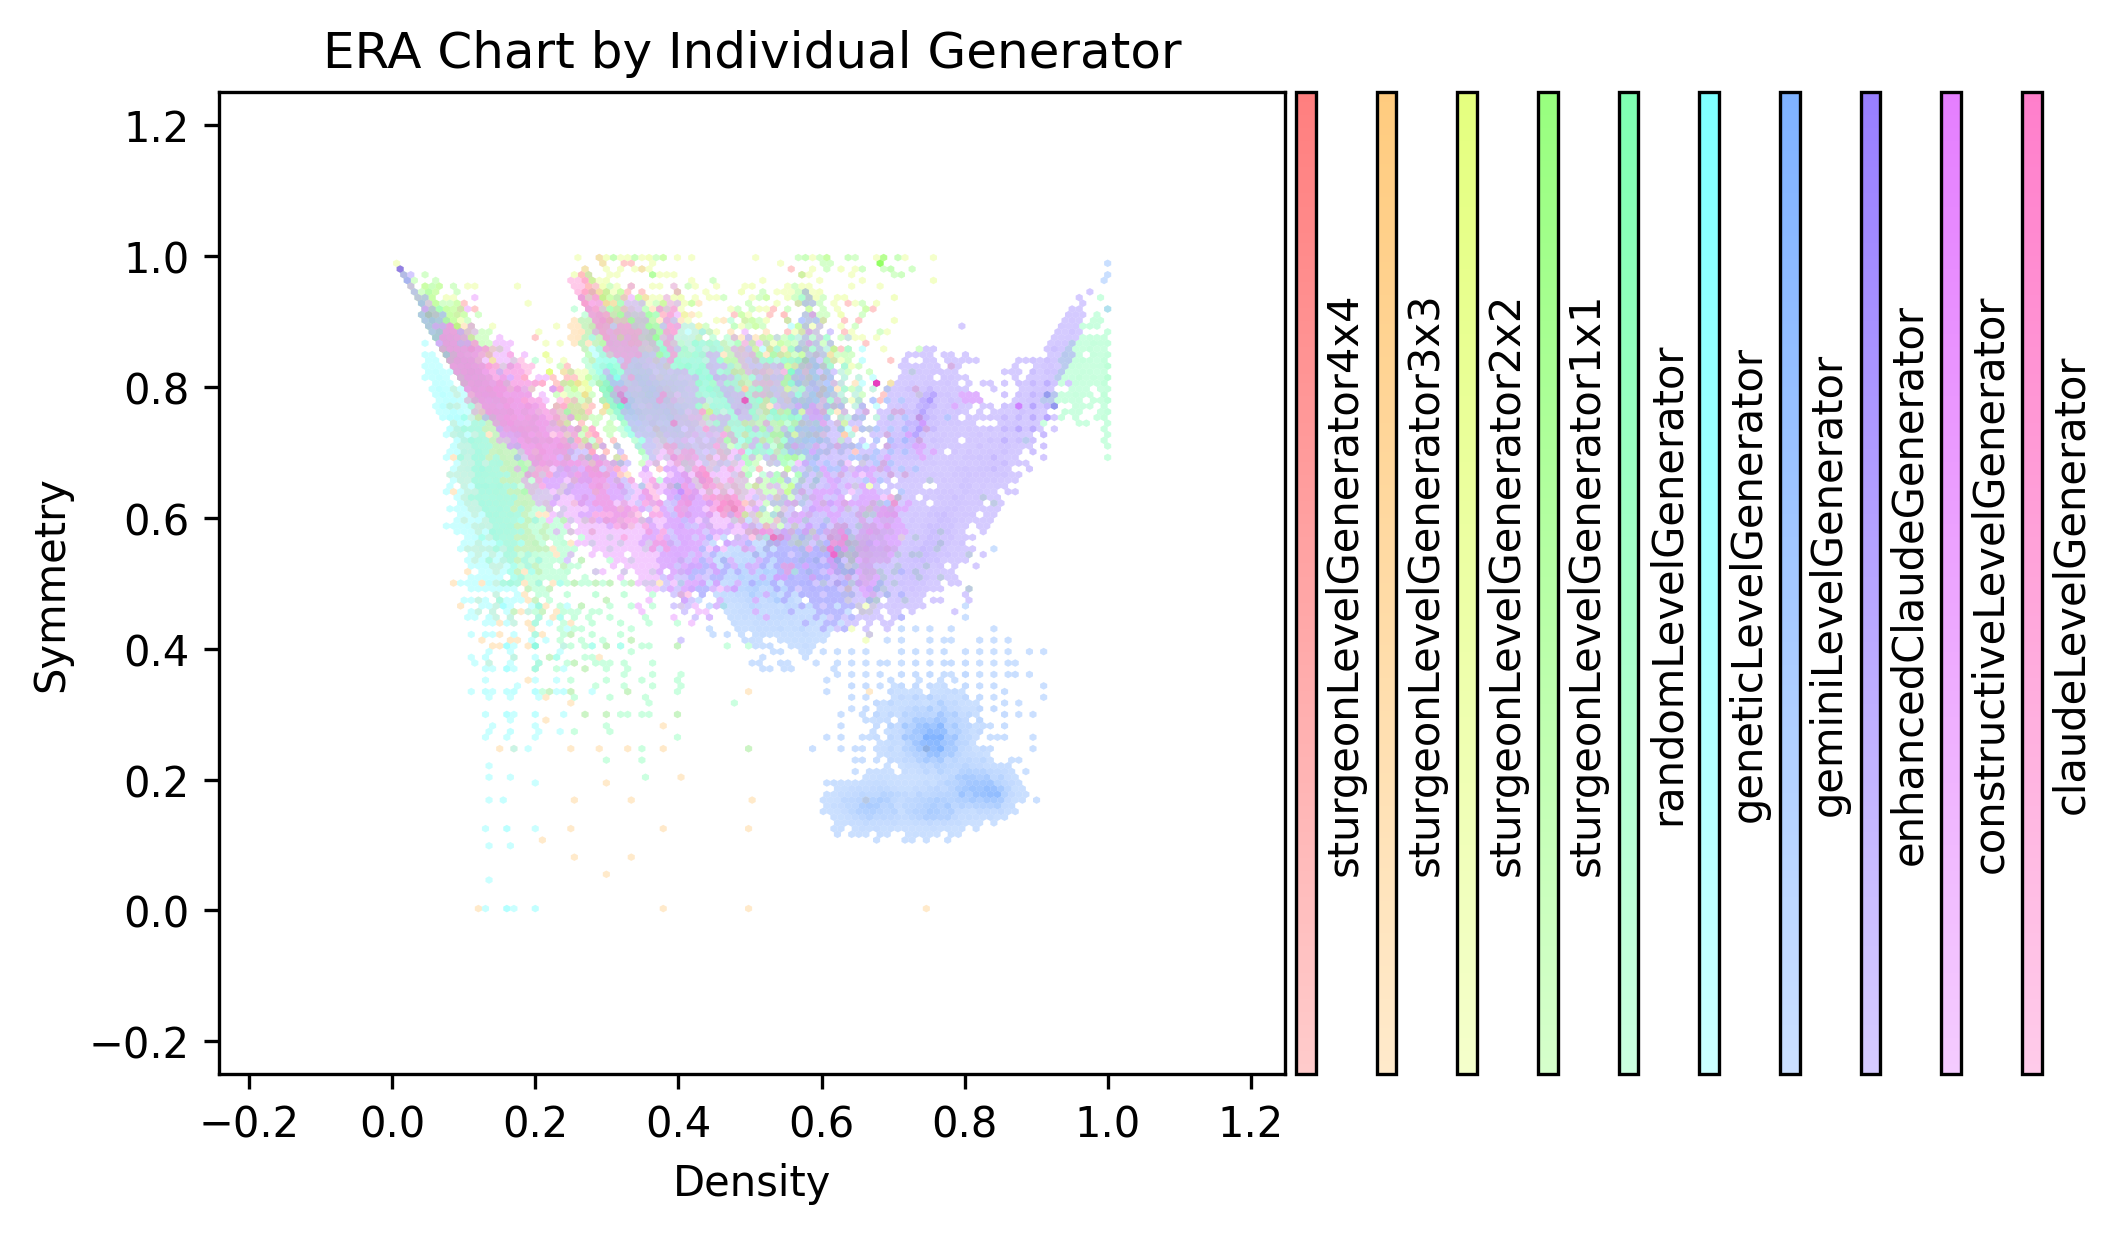
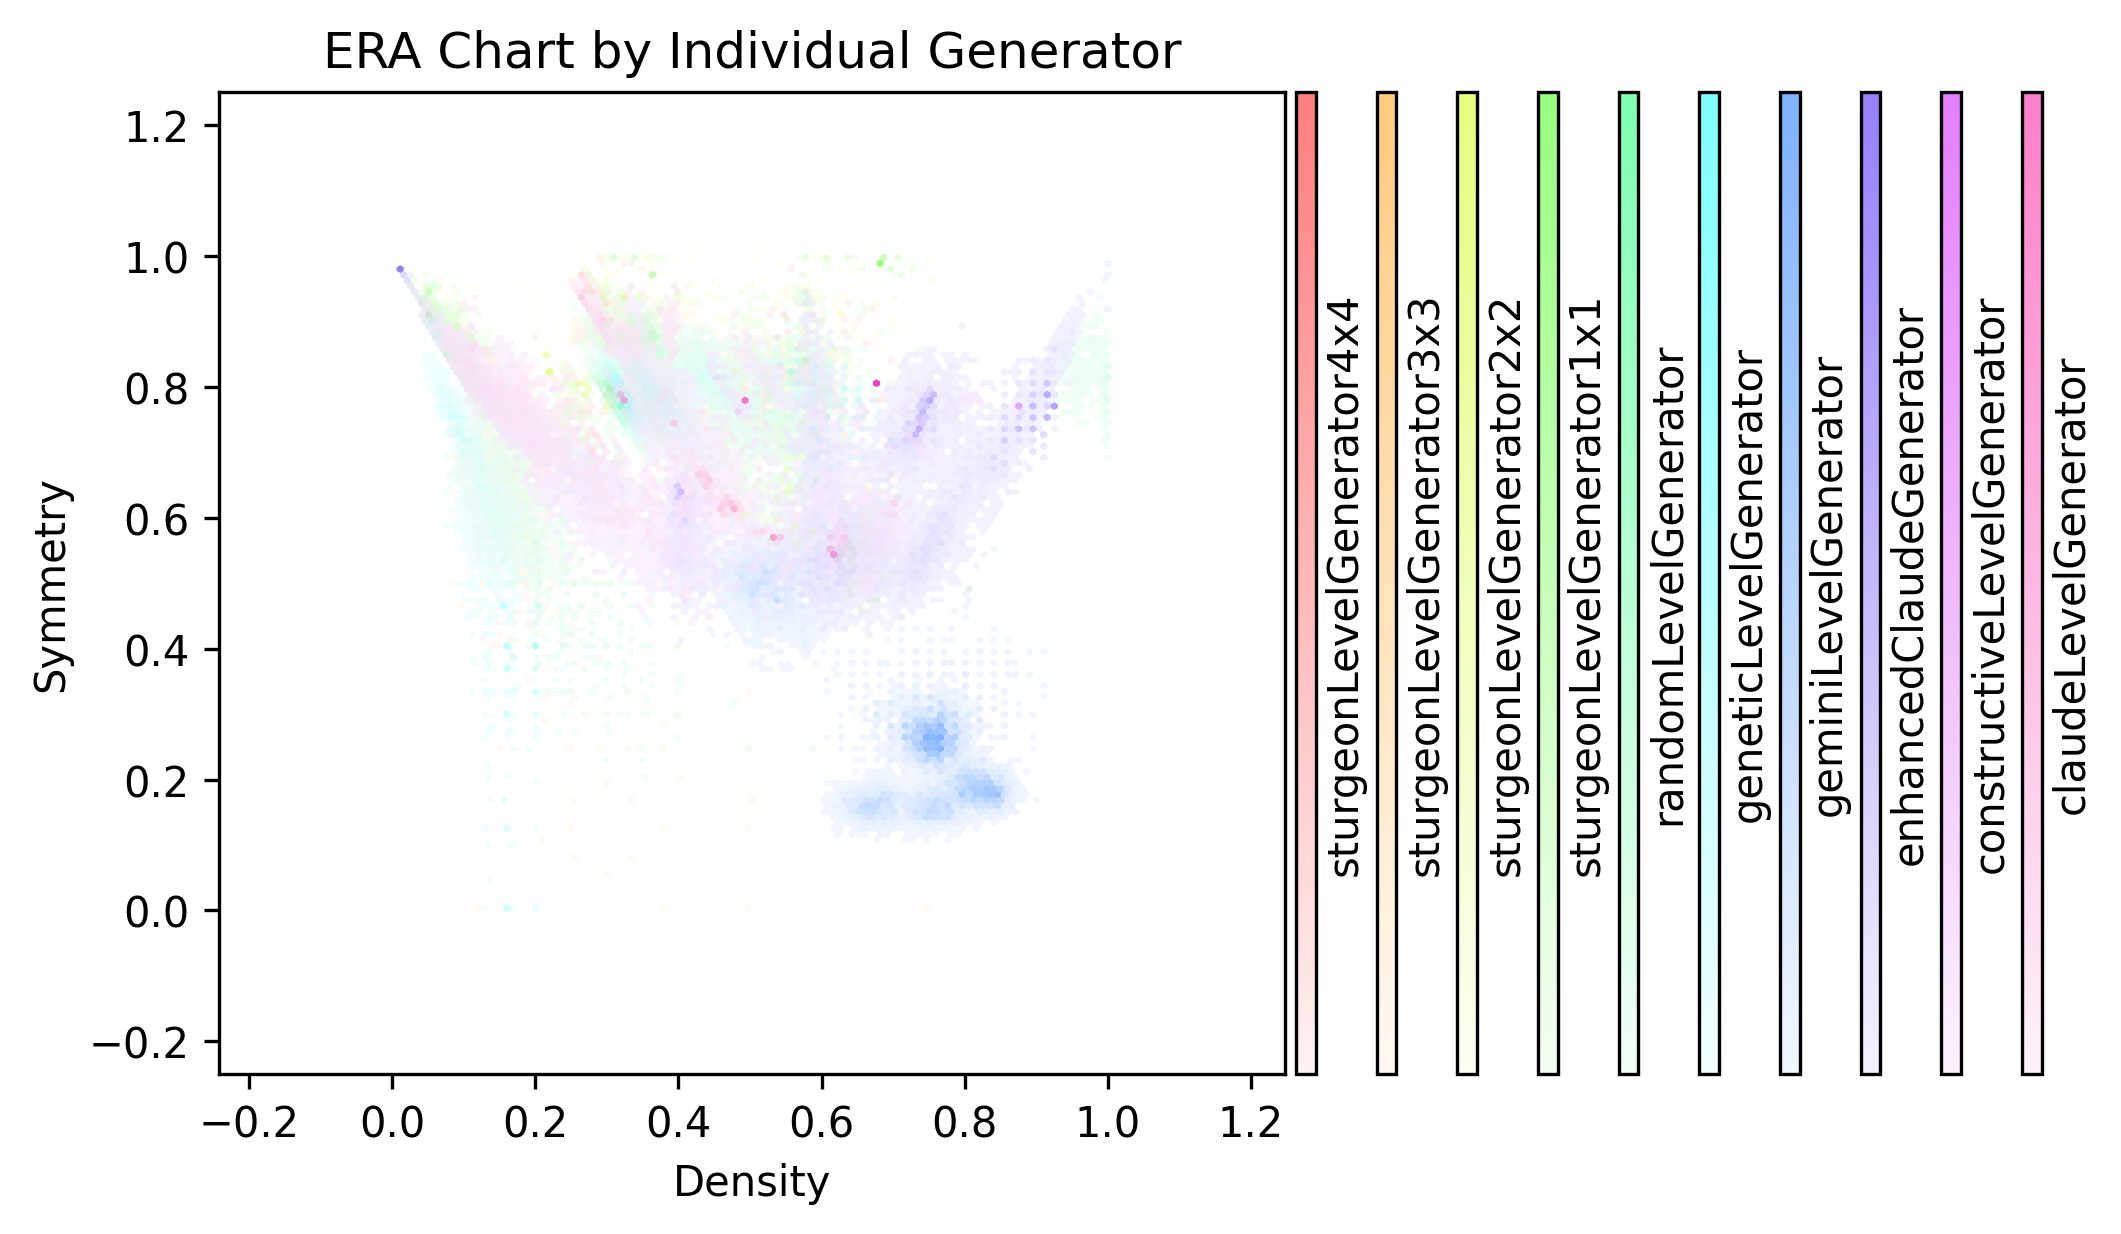
fall start

Changed region(s): [[0.1867, 0.1848, 0.529, 0.6775], [0.5912, 0.5851, 0.8091, 0.8622], [0.8402, 0.5851, 0.9646, 0.8622]]

diff --git a/src/tools/metricCalculation/calculateMetrics.java b/src/tools/metricCalculation/calculateMetrics.java
@@ -63,7 +63,7 @@ public class calculateMetrics {
         //First, add all the metrics that are calculated on a per level basis
 
         // Individual Metrics added to the json object below 
-        /**/
+        /*
         levelMetrics.addProperty("AgentSolutionLength", AgentSolutionLength.calculateMetric(levelPathString));
         levelMetrics.addProperty("AvatarX", AvatarX.calculateMetric(levelPathString));
         levelMetrics.addProperty("AvatarY", avatarY.calculateMetric(levelPathString));
@@ -101,7 +101,7 @@ public class calculateMetrics {
         // Put metrics with special formats here and explain why
         // Metrics that can not be plotted will be marked with an asterisk
         levelMetrics.add("MechanicUsage*", MechanicUsage.calculateMetric(levelPathString)); // Produces a json object (histogram); Requires a level's path
-        /**/
+        */
         // Finally, we add binning information. these should all be booleans that represent whether a level passes or fails a certain requirement
         JsonObject binningProperty = new JsonObject();
             binningProperty.addProperty("ConsistentRows", BinGeneratedLevels.consistentRows(levelText));
@@ -146,19 +146,18 @@ public class calculateMetrics {
             // Here we calculate metrics by game so that we are able to save a metric file for each game in each generator along with the metric file for all games for a generator
             Stream<Path> streamByGame = Files.list(Path.of(levelFolderPath)).filter(f -> !f.toString().endsWith(".json")).parallel(); // Remove parallelization if causing problems
             streamByGame.forEach(game -> {
-                
                 try {
                     JsonObject fullGameJson = new JsonObject();
                     
                     Stream<Path> streamByLevel = Files.walk(Path.of(game.toString() + "/"));
                     System.out.println("Creating metrics for... " + levelFolderPath + "/" + game.toString());
                     streamByLevel.forEach(level -> {
-                        System.out.println("Starting " + level.toString());
                         // If level file
                         if (level.toString().endsWith(".txt")){
                             try {
                                 fullGameJson.add(level.toString(), createLevelMetricJson(level));
-                                System.out.println("\r" + level.toString() + " completed!                           \r"); // (Load-bearing space characters)
+                                System.out.print("\r" + level.toString() + " completed!                           \r"); // (Load-bearing space characters)
+                                
                             } catch (IOException e) {
                                 e.printStackTrace();
                             }
@@ -176,8 +175,7 @@ public class calculateMetrics {
                     e.printStackTrace();
                     
                 }
-            }
-        );
+            });
             /*String fullJsonString = "";
             for (JsonObject j : fullGeneratorJsonList){
                 String jString = j.toString();
@@ -269,10 +267,11 @@ public class calculateMetrics {
         // Uncomment to generate metrics for all levels
         
         selectedFolders.add("generatedExamples/geminiLevelGenerator");
-        selectedFolders.add("generatedExamples/constructiveLevelGenerator");
-        selectedFolders.add("generatedExamples/geneticLevelGenerator");
-        selectedFolders.add("generatedExamples/enhancedClaudeGenerator");
-        selectedFolders.add("generatedExamples/randomLevelGenerator");
+        //selectedFolders.add("generatedExamples/constructiveLevelGenerator");
+        //selectedFolders.add("generatedExamples/geneticLevelGenerator");
+        //selectedFolders.add("generatedExamples/enhancedClaudeGenerator");
+        ////selectedFolders.add("generatedExamples/localLanguageModelGenerator");
+        //selectedFolders.add("generatedExamples/randomLevelGenerator");
         selectedFolders.add("generatedExamples/claudeLevelGenerator");
         selectedFolders.add("generatedExamples/sturgeonLevelGenerator1x1");
         selectedFolders.add("generatedExamples/sturgeonLevelGenerator2x2");

diff --git a/metric_analysis/figure_types/ERA_by_generator.py b/metric_analysis/figure_types/ERA_by_generator.py
@@ -65,7 +65,7 @@ def create_ERA_by_Generator(selected_metrics_tuple: tuple, exclude_malformed=Tru
 
     
     # Creates colorbars for each of our 10 games
-    colorbars = create_game_colorbars(.4)
+    colorbars = create_game_colorbars(.1)
     
     # USE THIS to debug yellow only graphs
     # print(x_lists_bygenerator)
@@ -108,7 +108,7 @@ def create_ERA_by_Generator(selected_metrics_tuple: tuple, exclude_malformed=Tru
         if os.path.isfile(save_file_name): os.remove(save_file_name)
         plt.savefig((save_file_name), dpi=300, bbox_inches="tight")
         
-        #plt.show()
+        plt.show()
         plt.close()
         return ax
 
